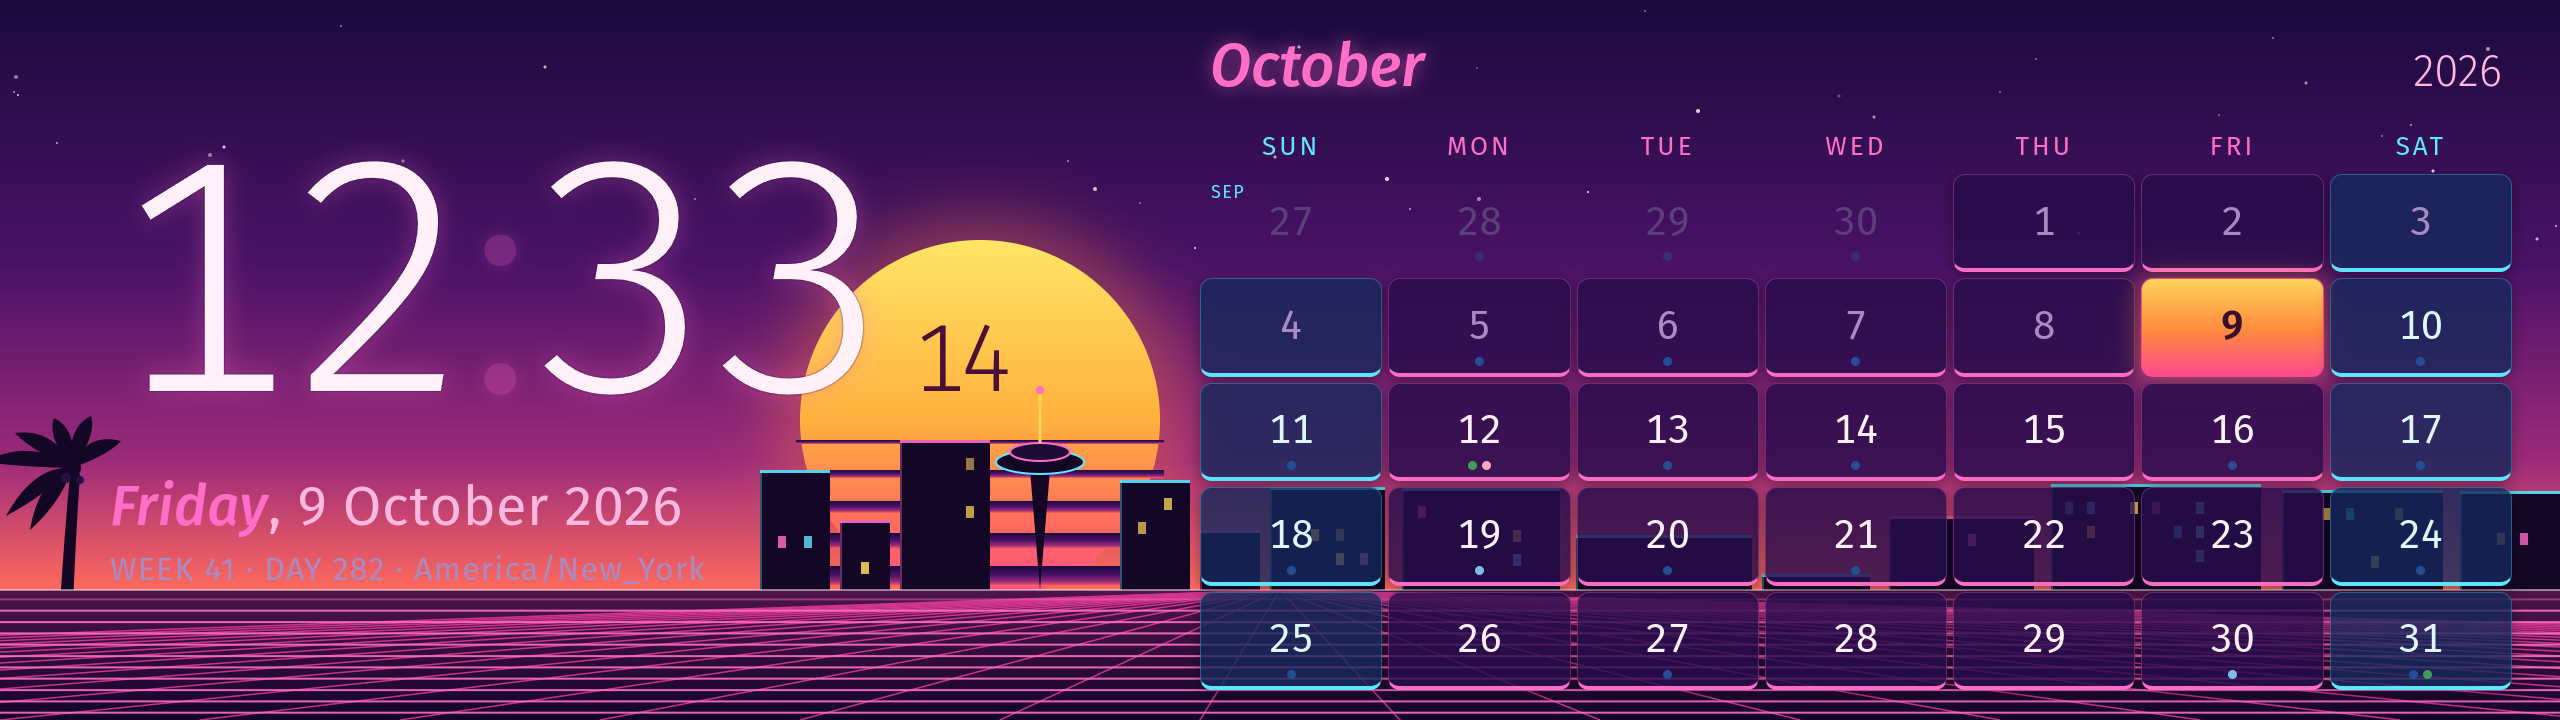
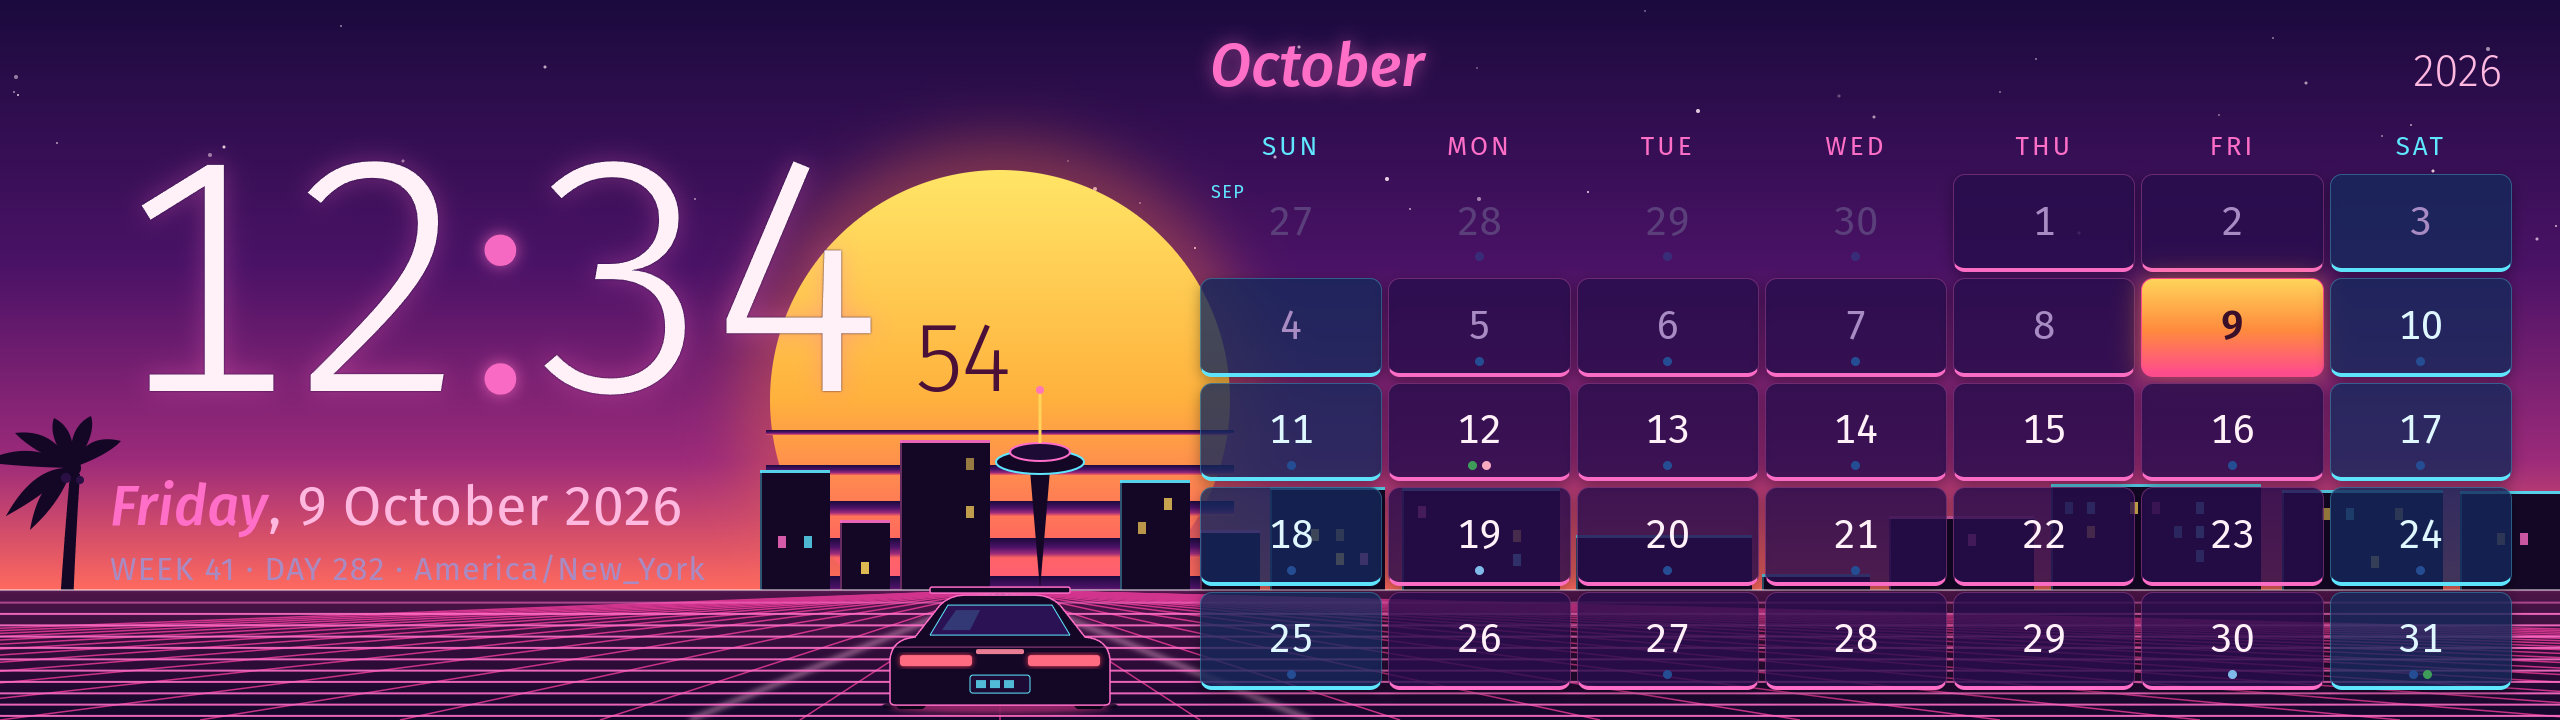
citypop-day: bigger sun on the vanishing point, a coupe driving into it
The grid's rails now converge on the sun's centre line with a brighter lane, and an
80s coupe sits in frame on that lane while the rows roll under it: pulsing taillight
bars, cyan rear window, neon underglow, a slight engine bob.

diff --git a/README.md b/README.md
@@ -29,7 +29,7 @@ touching the logic. Seven ship in `themes/`, switch with `./install.sh --theme=<
 |---|---|
 | **tokyo** (default) — the Akko set, above | **tron** — neon grid, light-cycle trails, drifting bits<br>![tron](docs/themes/tron.png) |
 | **phosphor** — green CRT, monospace, scanlines<br>![phosphor](docs/themes/phosphor.png) | **circuit** — copper traces on solder mask<br>![circuit](docs/themes/circuit.png) |
-| **citypop** — 80s Tokyo at night: neon, moon, wet streets<br>![citypop](docs/themes/citypop.png) | **citypop-day** — the synthwave sunset sibling: striped sun, rolling grid<br>![citypop-day](docs/themes/citypop-day.png) |
+| **citypop** — 80s Tokyo at night: neon, moon, wet streets<br>![citypop](docs/themes/citypop.png) | **citypop-day** — synthwave sunset: big striped sun, a coupe on a rolling grid<br>![citypop-day](docs/themes/citypop-day.png) |
 | **minimal** — bare dark, the template to copy<br>![minimal](docs/themes/minimal.png) | |
 
 ## Requirements
